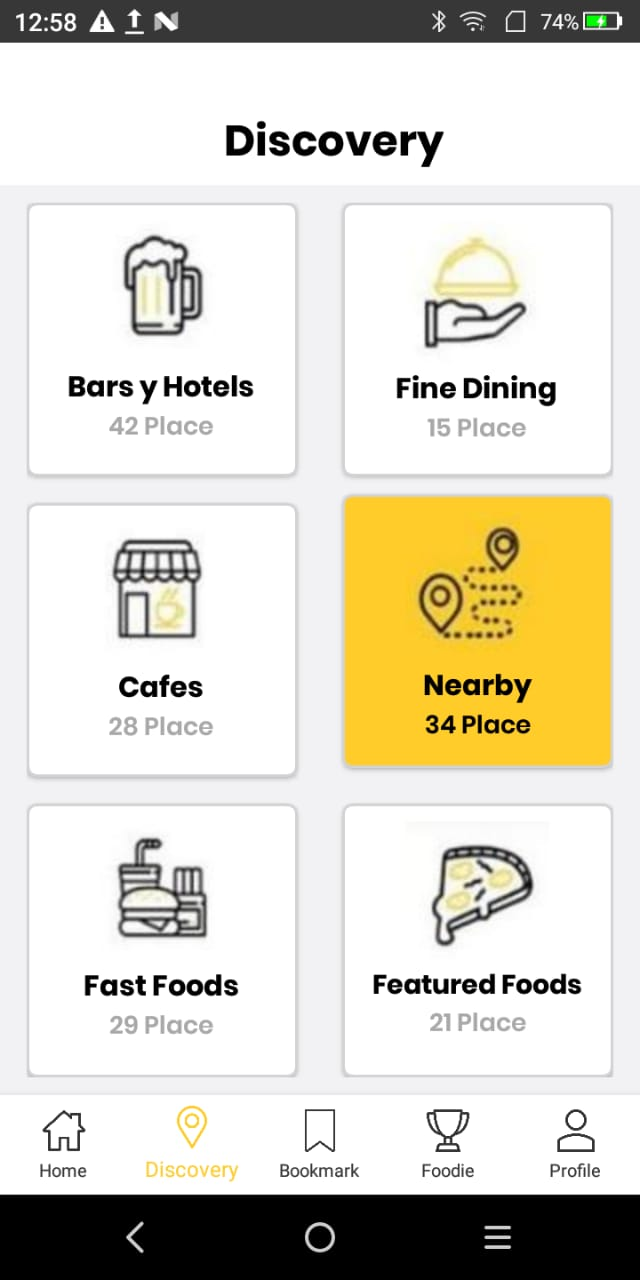
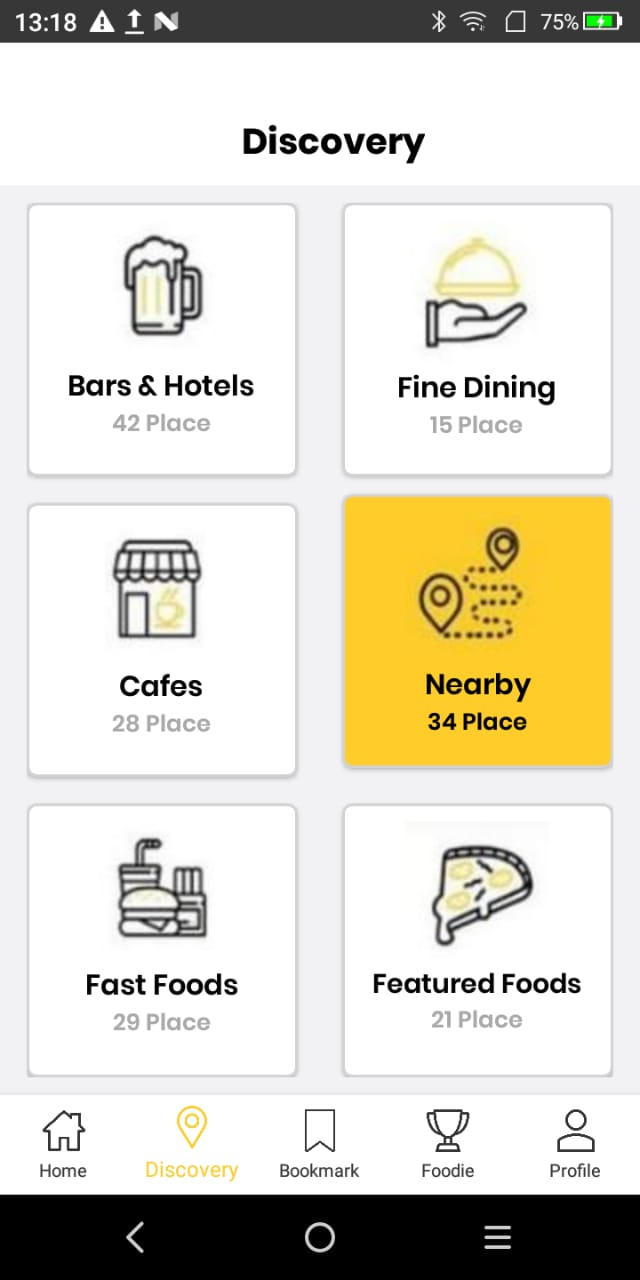
Updating Screenshot

diff --git a/Extra01/Extra01/Views/MainPage.xaml b/Extra01/Extra01/Views/MainPage.xaml
@@ -7,7 +7,7 @@
     <NavigationPage.TitleView>
         <StackLayout HorizontalOptions="Center" VerticalOptions="Start">
             <Label HorizontalTextAlignment="Center" VerticalTextAlignment="Start" FontFamily="{StaticResource PoppinsBoldFont}"
-                   Style="{StaticResource LabelStyle}" TextColor="Black" FontAttributes="Bold" FontSize="24"  Text="{Binding Title}" Margin="20,-5,20,0"/>
+                   Style="{StaticResource LabelStyle}" TextColor="Black" FontAttributes="Bold" FontSize="20"  Text="{Binding Title}" Margin="20,-5,20,0"/>
         </StackLayout>
     </NavigationPage.TitleView>
 
@@ -28,10 +28,10 @@
              BackgroundColor="White" BorderColor="LightGray" CornerRadius="5">
           <StackLayout VerticalOptions="Fill" HorizontalOptions="Center" Margin="-5,-10">
               <Image Source="ic_beer"/>
-              <Label HorizontalTextAlignment="Center" FontFamily="{StaticResource PoppinsBoldFont}" Text="Bars y Hotels"
-                     Style="{StaticResource LabelStyle}" TextColor="Black" FontAttributes="Bold" FontSize="16" Margin="0,0,0,-10"  />
+              <Label HorizontalTextAlignment="Center" FontFamily="{StaticResource PoppinsSemiBoldFont}" Text="Bars &#x0026; Hotels"
+                     Style="{StaticResource LabelStyle}" TextColor="Black" FontSize="16" Margin="0,0,0,-10"  />
               <Label HorizontalTextAlignment="Center" FontFamily="{StaticResource PoppinsSemiBoldFont}" Text="42 Place"
-                     Style="{StaticResource LabelStyle}" TextColor="DarkGray"  FontAttributes="Bold" FontSize="14" />
+                     Style="{StaticResource LabelStyle}" TextColor="DarkGray"  FontAttributes="Bold" FontSize="13" />
           </StackLayout>
       </Frame>
 
@@ -39,10 +39,10 @@
              BackgroundColor="White" BorderColor="LightGray" CornerRadius="5">
           <StackLayout VerticalOptions="Fill" HorizontalOptions="Center" Margin="-5,-10">
               <Image Source="ic_dining"/>
-              <Label HorizontalTextAlignment="Center" FontFamily="{StaticResource PoppinsBoldFont}" Text="Fine Dining"
-                     Style="{StaticResource LabelStyle}" TextColor="Black" FontAttributes="Bold" FontSize="16" Margin="0,-5,0,-10"  />
+              <Label HorizontalTextAlignment="Center" FontFamily="{StaticResource PoppinsSemiBoldFont}" Text="Fine Dining"
+                     Style="{StaticResource LabelStyle}" TextColor="Black" FontSize="16" Margin="0,-5,0,-10"  />
               <Label HorizontalTextAlignment="Center" FontFamily="{StaticResource PoppinsSemiBoldFont}" Text="15 Place"
-                     Style="{StaticResource LabelStyle}" TextColor="DarkGray"  FontAttributes="Bold" FontSize="14" />
+                     Style="{StaticResource LabelStyle}" TextColor="DarkGray"  FontAttributes="Bold" FontSize="13" />
           </StackLayout>
       </Frame>
 
@@ -50,10 +50,10 @@
              BackgroundColor="White" BorderColor="LightGray" CornerRadius="5">
           <StackLayout VerticalOptions="Fill" HorizontalOptions="Center" Margin="-5,-10">
               <Image Source="ic_cafes"/>
-              <Label HorizontalTextAlignment="Center" FontFamily="{StaticResource PoppinsBoldFont}" Text="Cafes"
-                     Style="{StaticResource LabelStyle}" TextColor="Black" FontAttributes="Bold" FontSize="16" Margin="0,0,0,-10"  />
+              <Label HorizontalTextAlignment="Center" FontFamily="{StaticResource PoppinsSemiBoldFont}" Text="Cafes"
+                     Style="{StaticResource LabelStyle}" TextColor="Black" FontSize="16" Margin="0,0,0,-10"  />
               <Label HorizontalTextAlignment="Center" FontFamily="{StaticResource PoppinsSemiBoldFont}" Text="28 Place"
-                     Style="{StaticResource LabelStyle}" TextColor="DarkGray"  FontAttributes="Bold" FontSize="14" />
+                     Style="{StaticResource LabelStyle}" TextColor="DarkGray"  FontAttributes="Bold" FontSize="13" />
           </StackLayout>
       </Frame>
 
@@ -61,10 +61,10 @@
              BackgroundColor="#ffcc2a" BorderColor="LightGray" CornerRadius="5">
           <StackLayout VerticalOptions="Fill" HorizontalOptions="Center" Margin="-5,-10">
               <Image Source="ic_nearby"/>
-              <Label HorizontalTextAlignment="Center" FontFamily="{StaticResource PoppinsBoldFont}" Text="Nearby"
-                     Style="{StaticResource LabelStyle}" TextColor="Black" FontAttributes="Bold" FontSize="16" Margin="0,0,0,-10"  />
+              <Label HorizontalTextAlignment="Center" FontFamily="{StaticResource PoppinsSemiBoldFont}" Text="Nearby"
+                     Style="{StaticResource LabelStyle}" TextColor="Black" FontSize="16" Margin="0,0,0,-10"  />
               <Label HorizontalTextAlignment="Center" FontFamily="{StaticResource PoppinsSemiBoldFont}" Text="34 Place"
-                     Style="{StaticResource LabelStyle}" TextColor="Black"  FontAttributes="Bold" FontSize="14" />
+                     Style="{StaticResource LabelStyle}" TextColor="Black" FontSize="13" />
           </StackLayout>
       </Frame>
 
@@ -72,10 +72,10 @@
              BackgroundColor="White" BorderColor="LightGray" CornerRadius="5">
           <StackLayout VerticalOptions="Fill" HorizontalOptions="Center" Margin="-5,-10">
               <Image Source="ic_food"/>
-              <Label HorizontalTextAlignment="Center" FontFamily="{StaticResource PoppinsBoldFont}" Text="Fast Foods"
-                     Style="{StaticResource LabelStyle}" TextColor="Black" FontAttributes="Bold" FontSize="16" Margin="0,0,0,-10"  />
+              <Label HorizontalTextAlignment="Center" FontFamily="{StaticResource PoppinsSemiBoldFont}" Text="Fast Foods"
+                     Style="{StaticResource LabelStyle}" TextColor="Black" FontSize="16" Margin="0,0,0,-10"  />
               <Label HorizontalTextAlignment="Center" FontFamily="{StaticResource PoppinsSemiBoldFont}" Text="29 Place"
-                     Style="{StaticResource LabelStyle}" TextColor="DarkGray"  FontAttributes="Bold" FontSize="14" />
+                     Style="{StaticResource LabelStyle}" TextColor="DarkGray"  FontAttributes="Bold" FontSize="13" />
           </StackLayout>
       </Frame>
 
@@ -83,10 +83,10 @@
              BackgroundColor="White" BorderColor="LightGray" CornerRadius="5">
           <StackLayout VerticalOptions="Fill" HorizontalOptions="Center" Margin="-5,-10">
               <Image Source="ic_pizza"/>
-              <Label HorizontalTextAlignment="Center" FontFamily="{StaticResource PoppinsBoldFont}" Text="Featured Foods"
-                     Style="{StaticResource LabelStyle}" TextColor="Black" FontAttributes="Bold" FontSize="15" Margin="0,-5,0,-10"  />
+              <Label HorizontalTextAlignment="Center" FontFamily="{StaticResource PoppinsSemiBoldFont}" Text="Featured Foods"
+                     Style="{StaticResource LabelStyle}" TextColor="Black" FontSize="15" Margin="0,-5,0,-10"  />
               <Label HorizontalTextAlignment="Center" FontFamily="{StaticResource PoppinsSemiBoldFont}" Text="21 Place"
-                     Style="{StaticResource LabelStyle}" TextColor="DarkGray"  FontAttributes="Bold" FontSize="14" />
+                     Style="{StaticResource LabelStyle}" TextColor="DarkGray"  FontAttributes="Bold" FontSize="13" />
           </StackLayout>
       </Frame>
 
